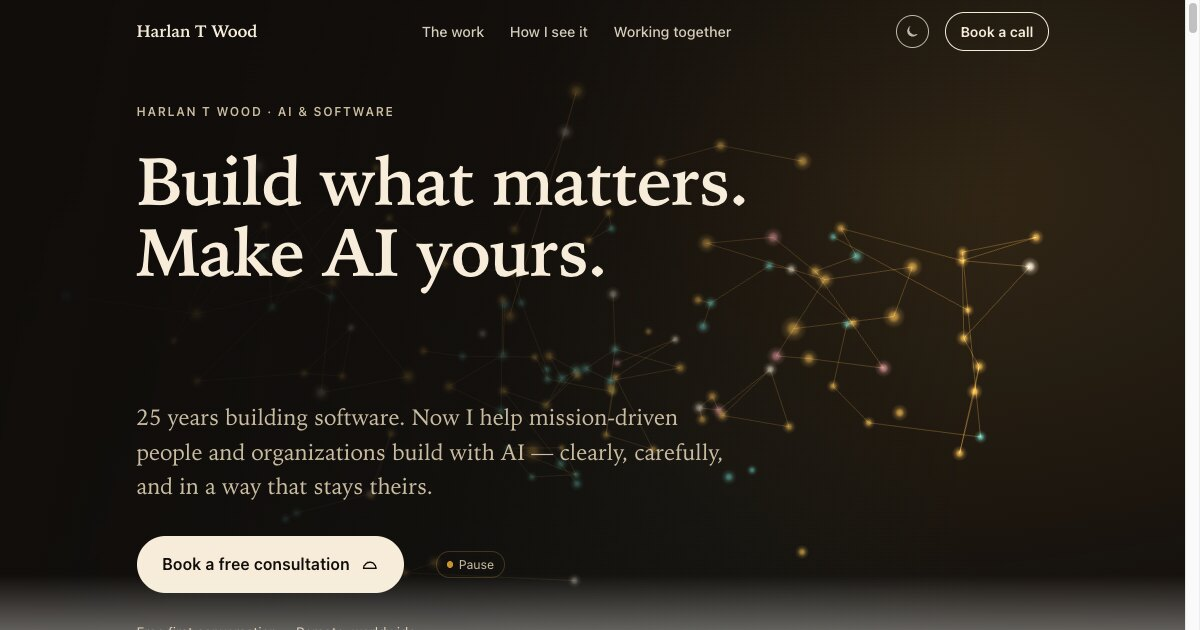
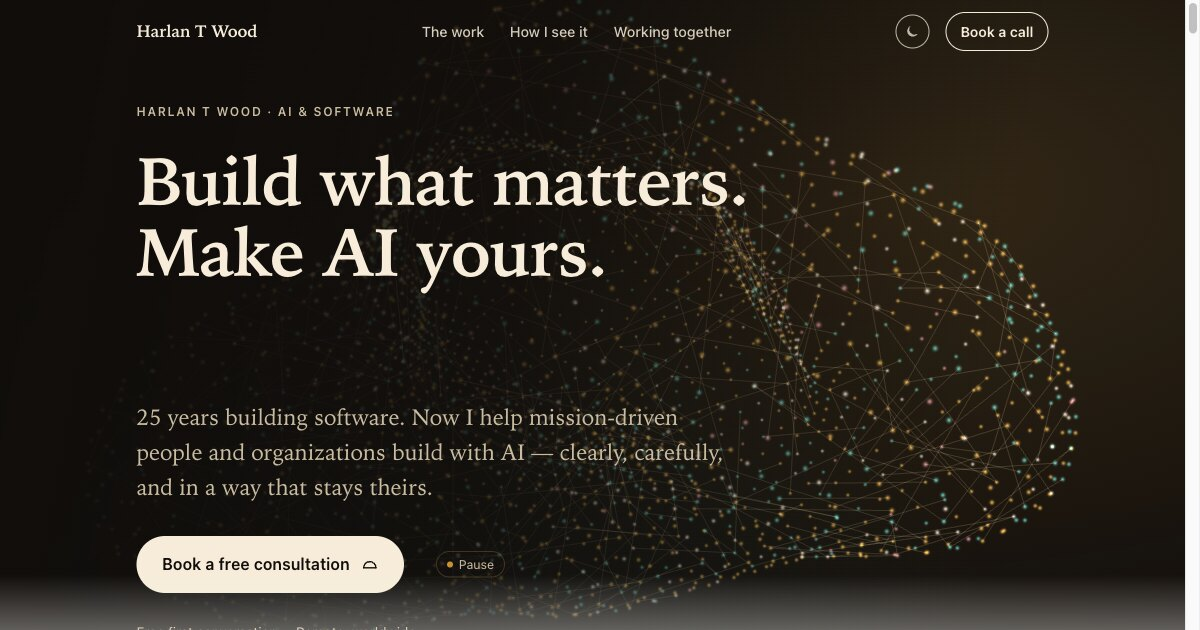
next: use the sculpture three.js hero scene (Harlan's pick)
Swap the hero scene from mycelium to sculpture (gallery/header #2), the
slowly rotating jewel-like node-sphere. Regenerate the OG image to match.
Docs updated.

Claude-Session: https://claude.ai/code/session_01L9QuE2Jn43me3PazFuJrES

diff --git a/next/index.html b/next/index.html
@@ -1200,7 +1200,7 @@
         /* ---- three.js hero scene (mycelium) ----------------------------- */
         var canvas = document.querySelector("[data-hero-canvas]");
         if (canvas && window.GraphScenes && window.THREE) {
-          try { GraphScenes.mycelium(canvas); } catch (e) {}
+          try { GraphScenes.sculpture(canvas); } catch (e) {}
         }
       })();
     </script>

diff --git a/_ai/next/HANDOFF.md b/_ai/next/HANDOFF.md
@@ -44,9 +44,8 @@ Jack Senechal → Terms → bio → invitation → footer.
 ## Galleries (for your review — pushed earlier)
 
 - **`/gallery/hero/`** — 3 GPT Image stills. My favorite: #2 (contour topography).
-- **`/gallery/header/`** — 3 live three.js scenes. My favorite: #1 (mycelium), which is what's on
-  `/next`. #2 (sculpture) is the jewel-like runner-up; say the word and I'll swap it in (one line:
-  `GraphScenes.mycelium` → `GraphScenes.sculpture`).
+- **`/gallery/header/`** — 3 live three.js scenes. Harlan chose **#2 (sculpture)**, now live on
+  `/next`. (To try another it's one line: `GraphScenes.sculpture` → `.mycelium` / `.flowfield`.)
 
 To use a **still** hero instead of the animation, the images are ready at `/gallery/hero/N.jpg`.
 
@@ -62,7 +61,7 @@ the hero (`/next/images/og.jpg`).
 
 - [ ] **Headline set** — I chose five. Add/cut/reword any; they live in the `HEADLINES` array near
   the bottom of `next/index.html`.
-- [ ] **Which three.js scene** — mycelium (current) vs sculpture vs flowfield.
+- [x] **Which three.js scene** — sculpture (chosen 2026-08-25).
 - [ ] **Location** — omitted from the bio pending Hawaii vs Azores (résumé says Azores; your
   Holochain intro and 808 number say Hawaii). Tell me and I'll add it.
 - [ ] **Testimonial sign-off** — McCarthy, Greg Woodward, Jack Senechal, Noah Thorp are used;

diff --git a/_ai/next/DESIGN.md b/_ai/next/DESIGN.md
@@ -10,9 +10,9 @@ The single move that makes this version its own thing: **the hero is a deep, war
 rest of the page rises out of into luminous daylight.**
 
 - The hero is always a deep warm ground (`--hero-ground: #100d0b`) regardless of theme — the only
-  ground on which a glowing graph reads well. A live **three.js node-graph** (the "mycelium"
-  scene, shared from `/vendor/graph-scenes.js`) drifts and breathes behind the headline in warm
-  gold/teal/rose.
+  ground on which a glowing graph reads well. A live **three.js node-graph** (the "sculpture"
+  scene — a slowly rotating jewel-like node-sphere; Harlan's pick — shared from
+  `/vendor/graph-scenes.js`) turns behind the headline in warm gold/teal/rose.
 - A left-weighted scrim keeps the headline crisp over the graph; a bottom gradient **melts the
   deep hero into the page's ivory ground.** That transition is the whole concept: night → dawn →
   the calm, light, luminous system below.
